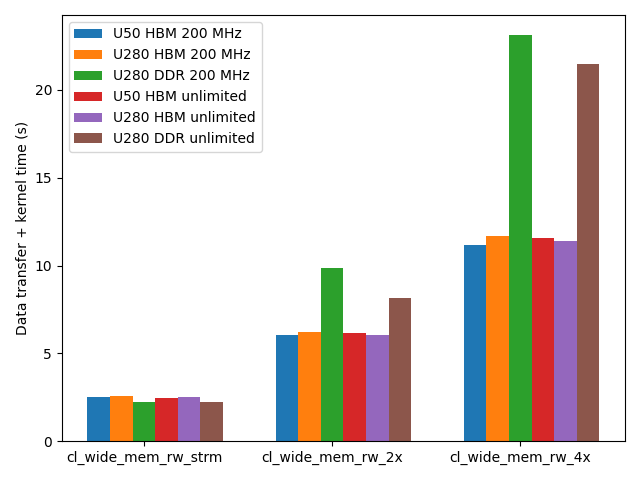
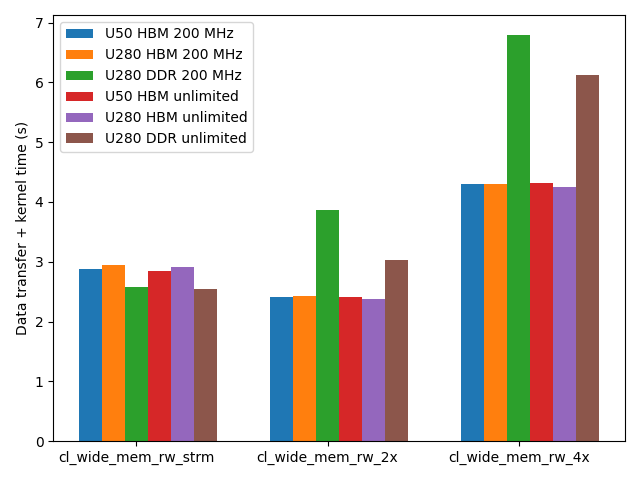
Use cpu times in exec time wide_mem

diff --git a/performance/execution-time-widemem.py b/performance/execution-time-widemem.py
@@ -41,12 +41,12 @@ plt.clf()
 
 # Data transfer + kernel time -------------------------------------------------------------------------------
 
-plt.bar(x - 2 * bar_width, df_u50_slow["transfer+kernel"].values, width=bar_width, label=f"U50 HBM 200 MHz")
-plt.bar(x - 1 * bar_width, df_u280_slow["transfer+kernel"].values, width=bar_width, label=f"U280 HBM 200 MHz")
-plt.bar(x                , df_u280_ddr_slow["transfer+kernel"].values, width=bar_width, label=f"U280 DDR 200 MHz")
-plt.bar(x + 1 * bar_width, df_u50_fast["transfer+kernel"].values, width=bar_width, label="U50 HBM unlimited")
-plt.bar(x + 2 * bar_width, df_u280_fast["transfer+kernel"].values, width=bar_width, label="U280 HBM unlimited")
-plt.bar(x + 3 * bar_width, df_u280_ddr_fast["transfer+kernel"].values, width=bar_width, label="U280 DDR unlimited")
+plt.bar(x - 2 * bar_width, df_u50_slow["time_cpu"].values, width=bar_width, label=f"U50 HBM 200 MHz")
+plt.bar(x - 1 * bar_width, df_u280_slow["time_cpu"].values, width=bar_width, label=f"U280 HBM 200 MHz")
+plt.bar(x                , df_u280_ddr_slow["time_cpu"].values, width=bar_width, label=f"U280 DDR 200 MHz")
+plt.bar(x + 1 * bar_width, df_u50_fast["time_cpu"].values, width=bar_width, label="U50 HBM unlimited")
+plt.bar(x + 2 * bar_width, df_u280_fast["time_cpu"].values, width=bar_width, label="U280 HBM unlimited")
+plt.bar(x + 3 * bar_width, df_u280_ddr_fast["time_cpu"].values, width=bar_width, label="U280 DDR unlimited")
 
 plt.xticks(x, app_names)
 plt.ylabel("Data transfer + kernel time (s)")
